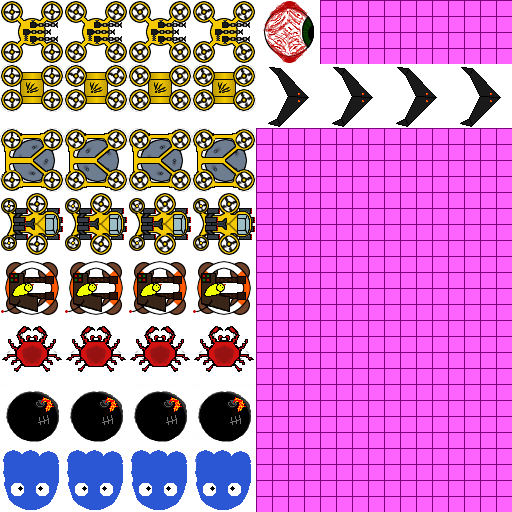
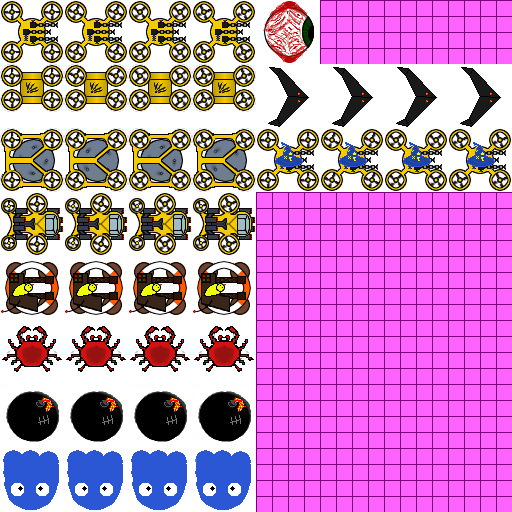
Beschwörer eingebaut. fixes #74

Changed region(s): [[0.5, 0.25, 1.0, 0.375]]

diff --git a/src/de/_13ducks/spacebatz/server/ai/behaviour/impl/summoner/SummonerBehaviour.java b/src/de/_13ducks/spacebatz/server/ai/behaviour/impl/summoner/SummonerBehaviour.java
@@ -1,0 +1,93 @@
+package de._13ducks.spacebatz.server.ai.behaviour.impl.summoner;
+
+import de._13ducks.spacebatz.server.ai.behaviour.impl.kiter.*;
+import de._13ducks.spacebatz.server.Server;
+import de._13ducks.spacebatz.server.ai.behaviour.Behaviour;
+import de._13ducks.spacebatz.server.data.Client;
+import de._13ducks.spacebatz.server.data.abilities.Ability;
+import de._13ducks.spacebatz.server.data.entities.Enemy;
+import de._13ducks.spacebatz.server.data.entities.Player;
+import de._13ducks.spacebatz.util.geo.Distance;
+
+/**
+ *
+ * @author michael
+ */
+public class SummonerBehaviour extends Behaviour {
+
+    private Player myTarget;
+    private Ability shootAbility;
+    private int lastShootTick;
+
+    public SummonerBehaviour(Enemy enemy) {
+        super(enemy);
+    }
+
+    /**
+     * Berechnet jeden Tick die KI.
+     *
+     * @param gameTick der GameTick für den berechnet wird.
+     */
+    @Override
+    public Behaviour tick(int gameTick) {
+        super.tick(gameTick);
+        // Nur alle 20 Ticks berechnen, um Auslastung zu veringern:
+        if (gameTick % 20 == 0) {
+            return this;
+        }
+
+        // Haben wir schon ein Ziel?
+        if (myTarget == null) {
+            // wenn er kein Ziel hat sucht er ob eines in dwer Nähe ist:
+            for (Client client : Server.game.clients.values()) {
+                Player player = client.getPlayer();
+                if (owner.getProperties().getSightrange() > Distance.getDistance(owner.getX(), owner.getY(), player.getX(), player.getY())) {
+                    myTarget = player;
+                }
+            }
+        } else {
+            // wenn er eins hat schaut er ob es noch in reichweite ist:
+            if (owner.getProperties().getSightrange() * 2 < Distance.getDistance(owner.getX(), owner.getY(), myTarget.getX(), myTarget.getY())) {
+                myTarget = null;
+                owner.move.stopMovement();
+            } else {
+                // Wenn wir schon nahe genug dran sind anhalten:
+                if (3.0 > Distance.getDistance(owner.getX(), owner.getY(), myTarget.getX(), myTarget.getY())) {
+                    owner.move.stopMovement();
+                    double dx = myTarget.getX() - owner.getX();
+                    double dy = myTarget.getY() - owner.getY();
+                    double dir = Math.atan2(dy, dx);
+                    if (dir < 0) {
+                        dir += 2 * Math.PI;
+                    }
+                    if (gameTick - lastShootTick > 120) {
+                        shootAbility.tryUseInAngle(owner, dir);
+                        lastShootTick = gameTick;
+                    }
+
+                } else {
+                    // wenn wir noch zu weit entfernt sind hinbewegen:
+                    double vectorX = myTarget.getX() - owner.getX();
+                    double vectorY = myTarget.getY() - owner.getY();
+                    // Sicher gehen, dass die Vektoren nicht 0 sind:
+                    if (vectorX == 0.0) {
+                        vectorX = 0.1;
+                    }
+                    if (vectorY == 0.0) {
+                        vectorY = 0.1;
+                    }
+                    owner.move.setVector(vectorX, vectorY);
+                }
+
+
+
+            }
+        }
+        return this;
+    }
+
+    @Override
+    public Behaviour onTargetDeath() {
+        return new SummonerLurkBehaviour(owner);
+    }
+}

diff --git a/src/de/_13ducks/spacebatz/server/gamelogic/EnemySpawner.java b/src/de/_13ducks/spacebatz/server/gamelogic/EnemySpawner.java
@@ -18,9 +18,11 @@ import de._13ducks.spacebatz.server.ai.behaviour.impl.kiter.KiterLurkBehaviour;
 import de._13ducks.spacebatz.server.ai.behaviour.impl.lurker.LurkerLurkBehaviour;
 import de._13ducks.spacebatz.server.ai.behaviour.impl.shooter.ShooterLurkBehaviour;
 import de._13ducks.spacebatz.server.ai.behaviour.impl.spectator.SpectatorLurkBehaviour;
+import de._13ducks.spacebatz.server.ai.behaviour.impl.summoner.SummonerLurkBehaviour;
 import de._13ducks.spacebatz.server.data.Zone;
 import de._13ducks.spacebatz.server.data.abilities.FireBulletAbility;
 import de._13ducks.spacebatz.server.data.abilities.KamikazeAbility;
+import de._13ducks.spacebatz.server.data.abilities.SummonEnemyAbility;
 import de._13ducks.spacebatz.server.data.entities.Enemy;
 import de._13ducks.spacebatz.server.data.entities.Entity;
 import de._13ducks.spacebatz.server.data.entities.Player;
@@ -288,18 +290,21 @@ public class EnemySpawner {
                     case KITER:
                         enem.setBehaviour(new KiterLurkBehaviour(enem));
                         break;
+                    case SUMMONER:
+                        enem.setBehaviour(new SummonerLurkBehaviour(enem));
+                        break;
                 }
                 // GGF Ability setzen:
                 switch (stats.shootAbility) {
                     case FIREBULLET:
-                        // @TODO: Die Werte, mit denen die Firebulletability initialisiert wird in den Enemytypestats abspeichern.
-                        // dann kann jeder Gegner seine eigene FireBulletAbility haben.
                         enem.setShootAbility(new FireBulletAbility(stats.abilityDamage, stats.abilityDamagespread, stats.abilityAttackspeed, stats.abilityRange, stats.abilityBulletpic, stats.abilityBulletspeed, stats.abilitySpread, stats.abilityExplosionradius, stats.abilityMaxoverheat, stats.abilityReduceoverheat));
                         enem.getShootAbility().setCooldown(100);
                         break;
                     case KAMIKAZE:
                         enem.setShootAbility(new KamikazeAbility(stats.abilityDamage, (int) stats.abilityRange));
                         break;
+                    case SUMMONENEMYS:
+                        enem.setShootAbility(new SummonEnemyAbility());
                 }
                 Server.game.getEntityManager().addEntity(enem.netID, enem);
             }

diff --git a/src/de/_13ducks/spacebatz/server/ai/behaviour/impl/summoner/SummonerSummonBehaviour.java b/src/de/_13ducks/spacebatz/server/ai/behaviour/impl/summoner/SummonerSummonBehaviour.java
@@ -1,0 +1,42 @@
+package de._13ducks.spacebatz.server.ai.behaviour.impl.summoner;
+
+import de._13ducks.spacebatz.server.ai.behaviour.impl.kiter.*;
+import de._13ducks.spacebatz.server.ai.behaviour.Behaviour;
+import de._13ducks.spacebatz.server.data.entities.Enemy;
+import de._13ducks.spacebatz.server.data.entities.Player;
+import de._13ducks.spacebatz.util.geo.Distance;
+
+class SummonerSummonBehaviour extends Behaviour {
+
+    private Player target;
+
+    public SummonerSummonBehaviour(Enemy owner, Player target) {
+        super(owner);
+        this.target = target;
+    }
+
+    @Override
+    public Behaviour tick(int gameTick) {
+        // schießen wenn möglich:
+        owner.getShootAbility().tryUseOnPosition(owner, owner.getX(), owner.getY());
+        double distance = Distance.getDistance(owner.getX(), owner.getY(), target.getX(), target.getY());
+        if (distance < 5) {
+            // Zu nah dran, wegrennen
+            double dx = (owner.getX() - target.getX());
+            double dy = (owner.getY() - target.getY());
+            owner.move.setVector(dx, dy);
+            return this;
+        } else if (distance > 10) {
+            // Zu weit weg, hinrennen
+            return new SummonerApproachIndirectBehaviour(owner, target);
+        } else {
+            // Genau ruchtig, stehenbleiben
+            return this;
+        }
+    }
+
+    @Override
+    public Behaviour onTargetDeath() {
+        return new SummonerLurkBehaviour(owner);
+    }
+}

diff --git a/src/de/_13ducks/spacebatz/server/ai/behaviour/impl/summoner/SummonerAproachDirectBehaviour.java b/src/de/_13ducks/spacebatz/server/ai/behaviour/impl/summoner/SummonerAproachDirectBehaviour.java
@@ -1,0 +1,33 @@
+package de._13ducks.spacebatz.server.ai.behaviour.impl.summoner;
+
+import de._13ducks.spacebatz.server.ai.behaviour.Behaviour;
+import de._13ducks.spacebatz.server.ai.behaviour.impl.GenericDirectPursuitBehaviour;
+import de._13ducks.spacebatz.server.data.entities.Enemy;
+import de._13ducks.spacebatz.server.data.entities.Player;
+
+/**
+ *
+ * @author michael
+ */
+public class SummonerAproachDirectBehaviour extends GenericDirectPursuitBehaviour {
+
+    public SummonerAproachDirectBehaviour(Enemy owner, Player target) {
+        super(owner, target, 7);
+    }
+
+    @Override
+    public Behaviour lostSight(Player target, Enemy owner) {
+        return new SummonerApproachIndirectBehaviour(owner, target);
+    }
+
+    @Override
+    public Behaviour reachedDesiredDistance(Player target, Enemy owner) {
+        owner.move.stopMovement();
+        return new SummonerSummonBehaviour(owner, target);
+    }
+
+    @Override
+    public Behaviour onTargetDeath() {
+        return new SummonerLurkBehaviour(owner);
+    }
+}

diff --git a/src/de/_13ducks/spacebatz/server/ai/behaviour/impl/summoner/SummonerApproachIndirectBehaviour.java b/src/de/_13ducks/spacebatz/server/ai/behaviour/impl/summoner/SummonerApproachIndirectBehaviour.java
@@ -1,0 +1,29 @@
+package de._13ducks.spacebatz.server.ai.behaviour.impl.summoner;
+
+import de._13ducks.spacebatz.server.ai.behaviour.impl.kiter.*;
+import de._13ducks.spacebatz.server.ai.behaviour.Behaviour;
+import de._13ducks.spacebatz.server.ai.behaviour.impl.GenericIndirectPursuitBehaviour;
+import de._13ducks.spacebatz.server.data.entities.Enemy;
+import de._13ducks.spacebatz.server.data.entities.Player;
+
+class SummonerApproachIndirectBehaviour extends GenericIndirectPursuitBehaviour {
+
+    public SummonerApproachIndirectBehaviour(Enemy owner, Player target) {
+        super(owner, target);
+    }
+
+    @Override
+    public Behaviour targetInSight(Enemy owner, Player target) {
+        return new SummonerAproachDirectBehaviour(owner, target);
+    }
+
+    @Override
+    public Behaviour targetLost() {
+        return new SummonerLurkBehaviour(owner);
+    }
+
+    @Override
+    public Behaviour onTargetDeath() {
+        return new SummonerLurkBehaviour(owner);
+    }
+}

diff --git a/src/de/_13ducks/spacebatz/server/ai/behaviour/impl/summoner/SummonerLurkBehaviour.java b/src/de/_13ducks/spacebatz/server/ai/behaviour/impl/summoner/SummonerLurkBehaviour.java
@@ -1,0 +1,26 @@
+package de._13ducks.spacebatz.server.ai.behaviour.impl.summoner;
+
+import de._13ducks.spacebatz.server.ai.behaviour.impl.kiter.*;
+import de._13ducks.spacebatz.server.ai.behaviour.impl.shooter.*;
+import de._13ducks.spacebatz.server.ai.behaviour.impl.spectator.*;
+import de._13ducks.spacebatz.server.ai.behaviour.Behaviour;
+import de._13ducks.spacebatz.server.ai.behaviour.impl.GenericLurkBehaviour;
+import de._13ducks.spacebatz.server.data.entities.Enemy;
+import de._13ducks.spacebatz.server.data.entities.Player;
+
+/**
+ *
+ * @author michael
+ */
+public class SummonerLurkBehaviour extends GenericLurkBehaviour {
+
+    public SummonerLurkBehaviour(Enemy owner) {
+        super(owner);
+    }
+
+    @Override
+    public Behaviour targetSpotted(Player target) {
+        target.hunters.add(owner);
+        return new SummonerApproachIndirectBehaviour(owner, target);
+    }
+}

diff --git a/src/de/_13ducks/spacebatz/shared/EnemyTypes.java b/src/de/_13ducks/spacebatz/shared/EnemyTypes.java
@@ -175,6 +175,16 @@ public class EnemyTypes implements java.io.Serializable {
         kiter.sightrange = (10);
         kiter.enemylevel = (5);
 
+        EnemyTypeStats summoner = new EnemyTypeStats();
+        enemytypelist.add(summoner);
+        summoner.behaviour = (EnemyTypeStats.BehaviourType.SUMMONER);
+        summoner.shootAbility = (EnemyTypeStats.AbilityType.SUMMONENEMYS);
+        summoner.healthpoints = (5);
+        summoner.picture = (20);
+        summoner.speed = (0.1f);
+        summoner.sightrange = (10);
+        summoner.enemylevel = (5);
+
     }
 
     /**

diff --git a/src/de/_13ducks/spacebatz/shared/EnemyTypeStats.java b/src/de/_13ducks/spacebatz/shared/EnemyTypeStats.java
@@ -66,7 +66,7 @@ public class EnemyTypeStats implements java.io.Serializable {
      */
     public static enum BehaviourType {
 
-        SHOOTER, SPECTATOR, KAMIKAZE, LURKER, KITER
+        SHOOTER, SPECTATOR, KAMIKAZE, LURKER, KITER, SUMMONER
     };
 
     /**
@@ -74,7 +74,7 @@ public class EnemyTypeStats implements java.io.Serializable {
      */
     public static enum AbilityType {
 
-        FIREBULLET, NONE, KAMIKAZE
+        FIREBULLET, NONE, KAMIKAZE, SUMMONENEMYS
     };
 
     /**

diff --git a/src/de/_13ducks/spacebatz/server/data/abilities/SummonEnemyAbility.java b/src/de/_13ducks/spacebatz/server/data/abilities/SummonEnemyAbility.java
@@ -18,7 +18,7 @@ import de._13ducks.spacebatz.server.ai.behaviour.impl.standardenemy.StandardEnem
 public class SummonEnemyAbility extends Ability {
 
     public SummonEnemyAbility() {
-        setCooldown(100);
+        setCooldown(300);
     }
 
     @Override
